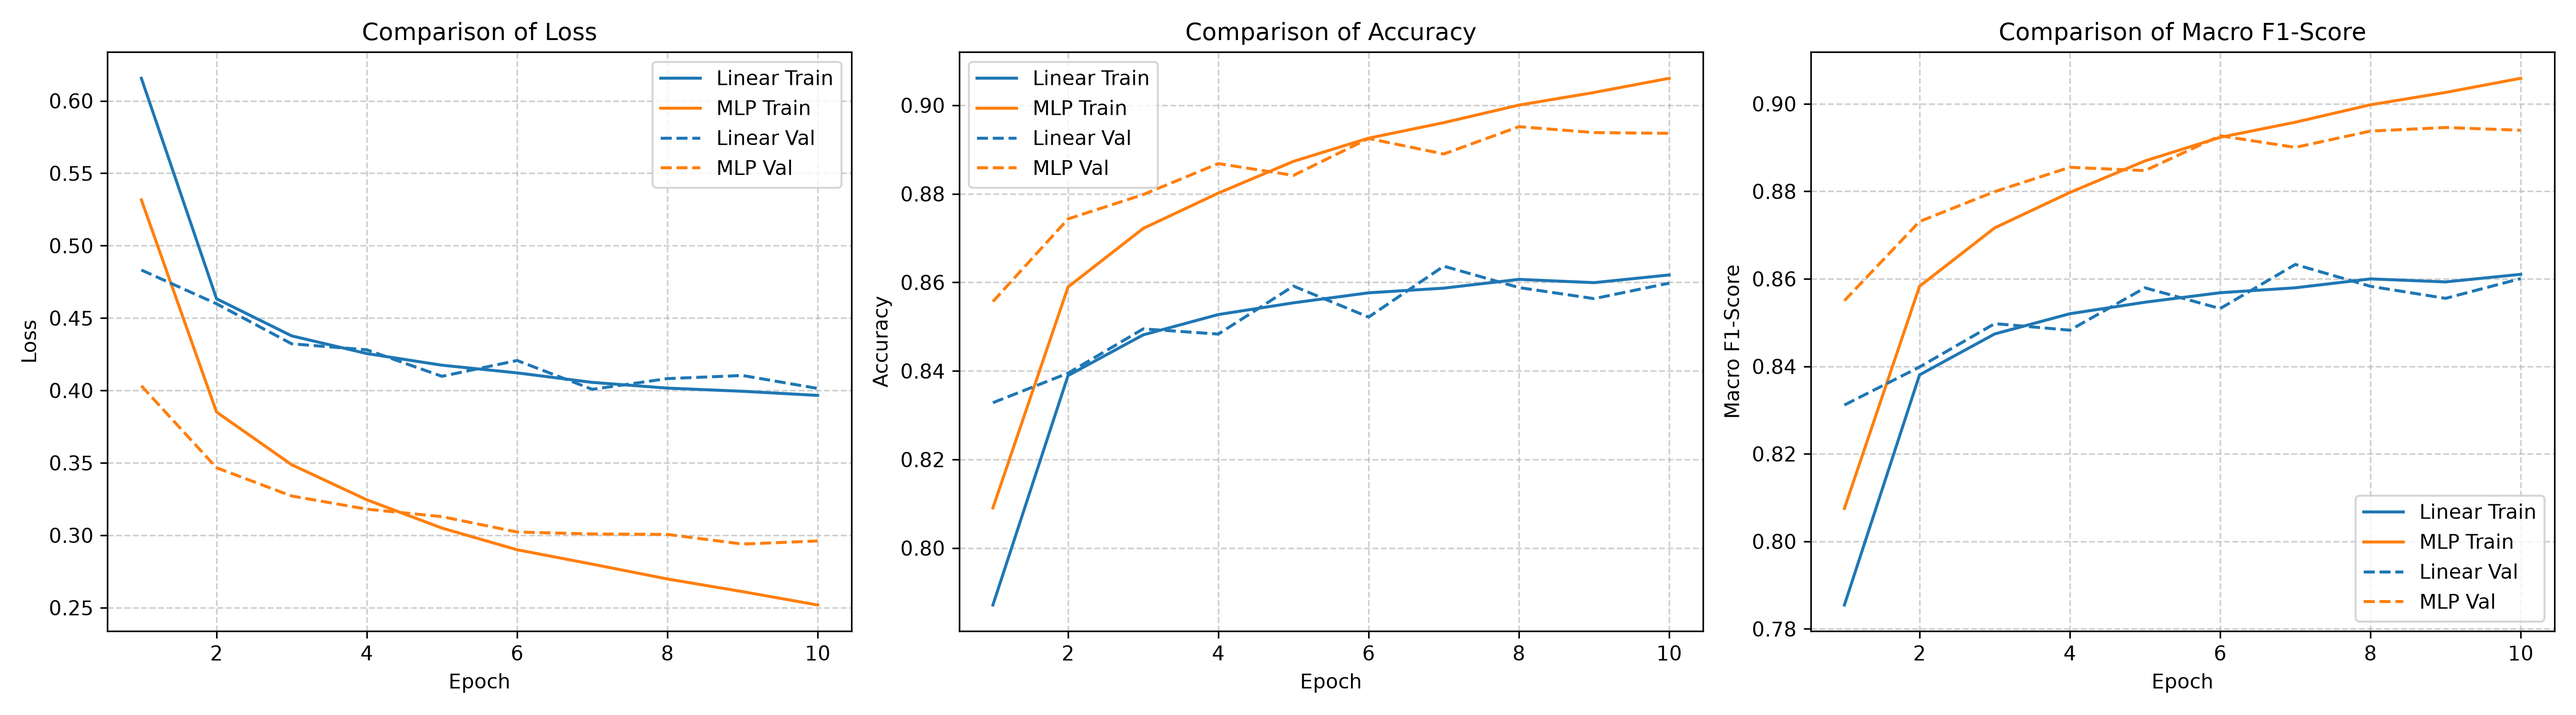
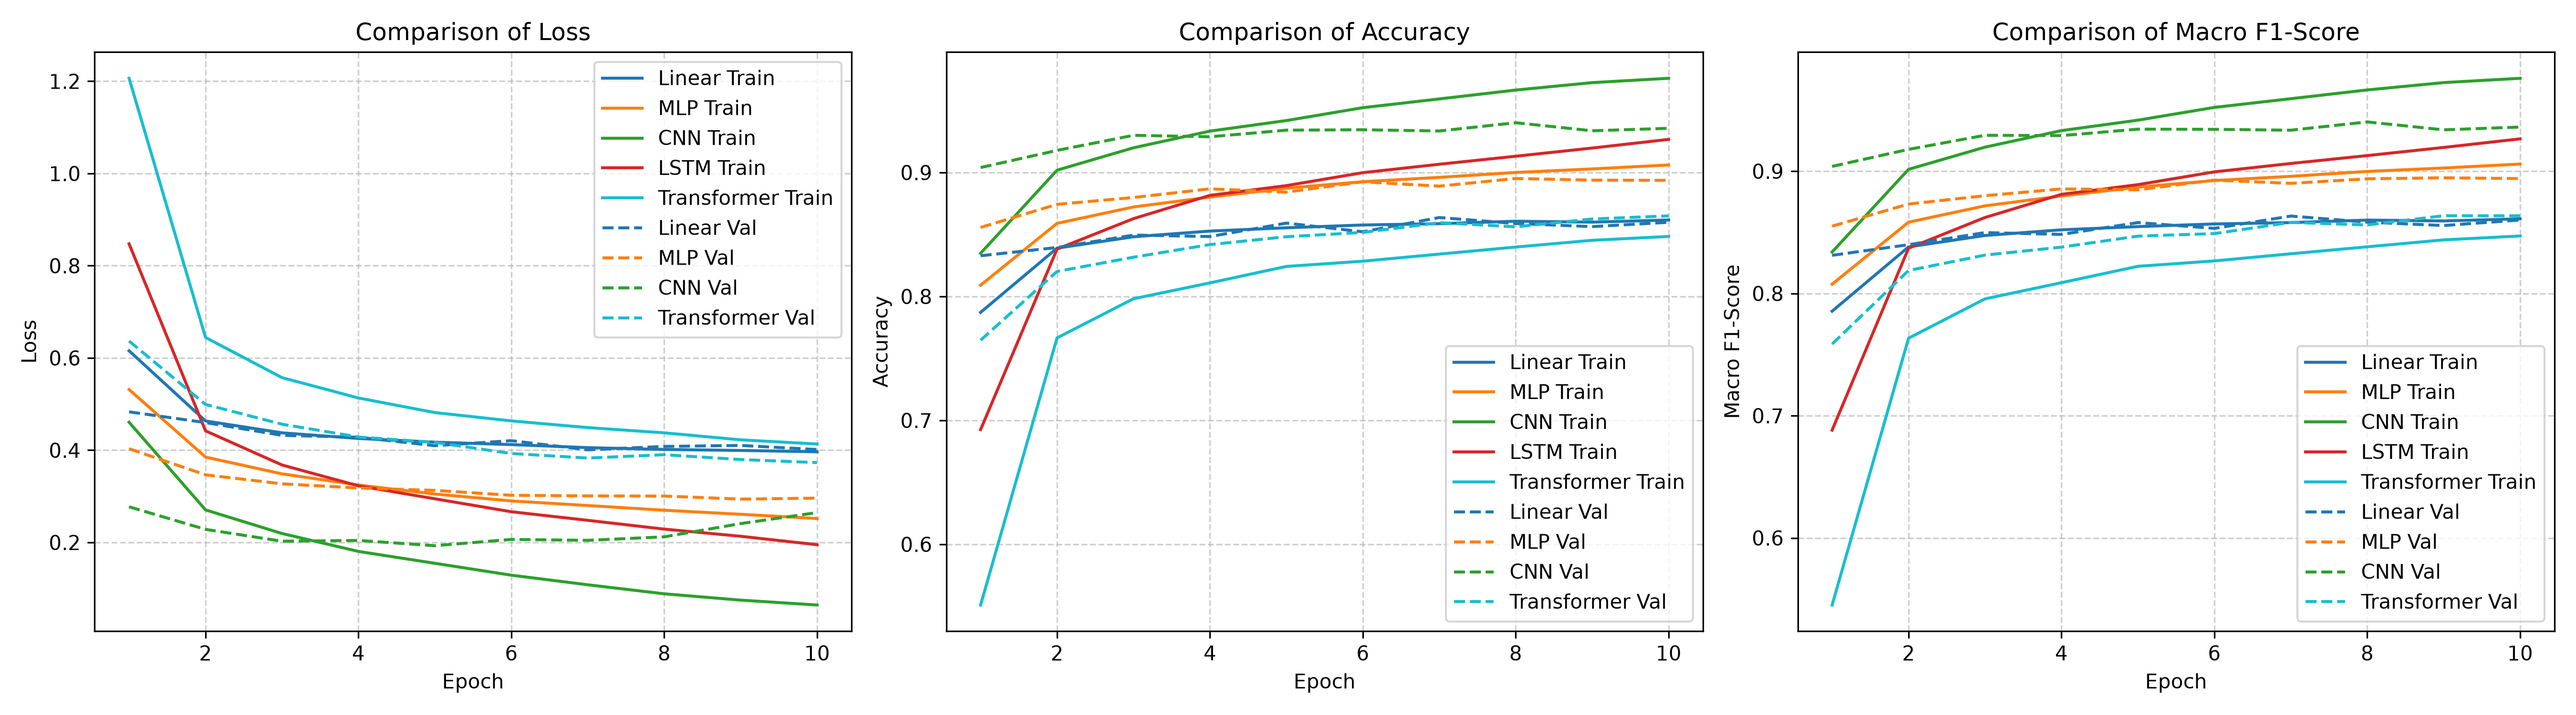
feat(model) implement Transformer

diff --git a/assignment1/src/models/transformer.py b/assignment1/src/models/transformer.py
@@ -1,1 +1,68 @@
- -
+import torch
+import torch.nn as nn
+
+class PatchEmbedding(nn.Module):
+    def __init__(self, img_size=28, patch_size=4, in_channel=1, num_hiddens=32):
+        super().__init__()
+        def _make_tuple(x):
+            if not isinstance(x, (list, tuple)):
+                return (x, x)
+            return x
+        img_size, patch_size = _make_tuple(img_size), _make_tuple(patch_size)
+        self.num_patches = (img_size[0] // patch_size[0]) * (img_size[1] // patch_size[1])
+        self.conv = nn.Conv2d(in_channel, num_hiddens, kernel_size=patch_size, stride=patch_size)
+
+    def forward(self, X):
+        return self.conv(X).flatten(2).transpose(1, 2)
+
+class ViTMLP(nn.Module):
+    def __init__(self, mlp_num_inputs, mlp_num_hiddens, mlp_num_outputs, dropout=0.5):
+        super().__init__()
+        self.dense1 = nn.Linear(mlp_num_inputs, mlp_num_hiddens)
+        self.gelu = nn.GELU()
+        self.dropout1 = nn.Dropout(dropout)
+        self.dense2 = nn.Linear(mlp_num_hiddens, mlp_num_outputs)
+        self.dropout2 = nn.Dropout(dropout)
+
+    def forward(self, x):
+        return self.dropout2(self.dense2(self.dropout1(self.gelu(self.dense1(x)))))
+    
+class ViTBlock(nn.Module):
+    def __init__(self, num_hiddens, norm_shape, mlp_num_hiddens, num_heads, dropout, use_bias=False):
+        super().__init__()
+        self.ln1 = nn.LayerNorm(norm_shape)
+        self.attention = nn.MultiheadAttention(num_hiddens, num_heads, dropout, use_bias, batch_first=True)
+        self.ln2 = nn.LayerNorm(norm_shape)
+        self.mlp = ViTMLP(num_hiddens, mlp_num_hiddens, num_hiddens, dropout)
+
+    def forward(self, X):
+        X = X + self.attention(*([self.ln1(X)] * 3))[0]
+        return X + self.mlp(self.ln2(X))
+
+class Transformer(nn.Module):
+    def __init__(self, img_size=28, patch_size=4, num_hiddens=32, 
+                 mlp_num_hiddens=64, num_heads=4, num_blks=3, emb_dropout=0.1, blk_dropout=0.1, 
+                 lr=0.1, use_bias=True, num_classes=10):
+        super().__init__()
+        self.patch_embedding = PatchEmbedding(img_size, patch_size, 1, num_hiddens)
+        self.cls_token = nn.Parameter(torch.zeros(1, 1, num_hiddens))
+        num_steps = self.patch_embedding.num_patches + 1
+        self.pos_embedding = nn.Parameter(torch.randn(1, num_steps, num_hiddens))
+        self.dropout = nn.Dropout(emb_dropout)
+        self.blks = nn.Sequential()
+        for i in range(num_blks):
+            self.blks.add_module(f"{i}", ViTBlock(
+                num_hiddens, num_hiddens, mlp_num_hiddens,
+                num_heads, blk_dropout, use_bias))
+        
+        self.head = nn.Sequential(nn.LayerNorm(num_hiddens),
+                                  nn.Linear(num_hiddens, num_classes))
+        
+    def forward(self, X):
+        X = self.patch_embedding(X)
+        X = torch.cat((self.cls_token.expand(X.shape[0], -1, -1), X), 1)
+        X = self.dropout(X + self.pos_embedding)
+        for blk in self.blks:
+            X = blk(X)
+        return self.head(X[:, 0])
+        

diff --git a/assignment1/src/plot_curves.py b/assignment1/src/plot_curves.py
@@ -6,6 +6,12 @@ df_linear = pd.read_csv("results/linear_history.csv")
 
 df_mlp = pd.read_csv("results/mlp_history.csv")
 
+df_cnn = pd.read_csv("results/cnn/cnn_ep10_history.csv")
+
+df_lstm = pd.read_csv("results/lstm/lstm_ep10_history.csv")
+
+df_transformer = pd.read_csv("results/transformer/transformer_ep10_history.csv")
+
 fig, axes = plt.subplots(nrows=1, ncols=3, figsize=(18, 5))
 
 metrics = [
@@ -17,9 +23,14 @@ metrics = [
 for ax, (metric, title) in zip(axes, metrics):
     ax.plot(df_linear["epoch"], df_linear[f"train_{metric}"], label="Linear Train", color="tab:blue")
     ax.plot(df_mlp["epoch"], df_mlp[f"train_{metric}"], label="MLP Train", color="tab:orange")
+    ax.plot(df_cnn["epoch"], df_cnn[f"train_{metric}"], label="CNN Train", color="tab:green")
+    ax.plot(df_lstm["epoch"], df_lstm[f"train_{metric}"], label="LSTM Train", color="tab:red")
+    ax.plot(df_transformer["epoch"], df_transformer[f"train_{metric}"], label="Transformer Train", color="tab:cyan")
 
     ax.plot(df_linear["epoch"],df_linear[f"val_{metric}"],label=f"Linear Val",color="tab:blue",linestyle="--")
     ax.plot(df_mlp["epoch"], df_mlp[f"val_{metric}"],label=f"MLP Val",color="tab:orange",linestyle="--")
+    ax.plot(df_cnn["epoch"], df_cnn[f"val_{metric}"],label=f"CNN Val",color="tab:green",linestyle="--")
+    ax.plot(df_transformer["epoch"], df_transformer[f"val_{metric}"],label=f"Transformer Val",color="tab:cyan",linestyle="--")
 
     ax.set_title(f"Comparison of {title}")
     ax.set_xlabel("Epoch")

diff --git a/assignment1/src/train.py b/assignment1/src/train.py
@@ -13,13 +13,14 @@ from src.models.linear import LinearClassifier
 from src.models.mlp import MLP
 from src.models.cnn import CNN
 from src.models.lstm import LSTM
+from src.models.transformer import Transformer
 from src.metrics import count_parameters, measure_time
 
 device = torch.device(
     "cuda" if torch.cuda.is_available() else "cpu"
 )
 
-models = ['linear', 'mlp', 'cnn', 'lstm']
+models = ['linear', 'mlp', 'cnn', 'lstm', 'transformer']
 
 def run_batches(
     model,
@@ -101,16 +102,16 @@ def run_batches(
     return average_loss, metrics
 
 def create_model(model_name):
-
     if model_name == "linear":
         return LinearClassifier()
-
     if model_name == "mlp":
         return MLP()
     if model_name == "cnn":
         return CNN()
     if model_name == 'lstm':
         return LSTM()
+    if model_name == 'transformer':
+        return Transformer()
     raise ValueError(
         "Model must be 'linear', 'mlp', 'cnn', or 'lstm"
     )
